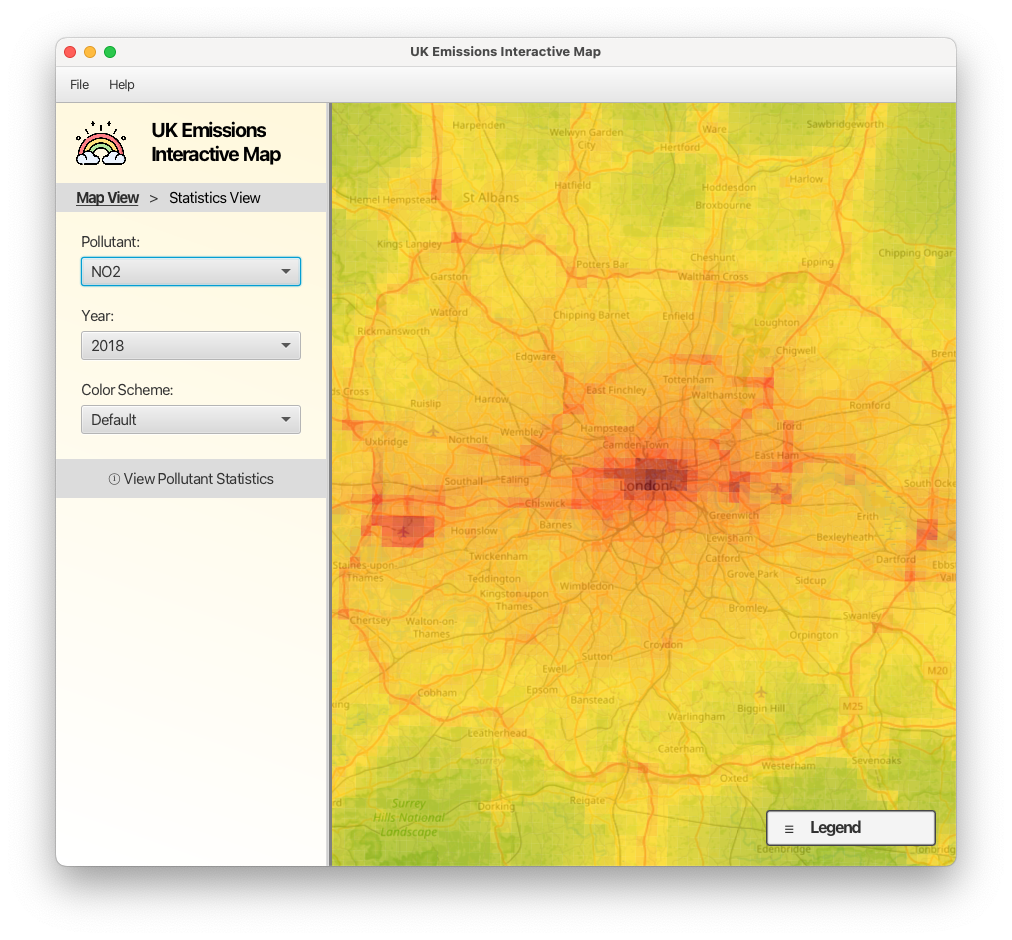
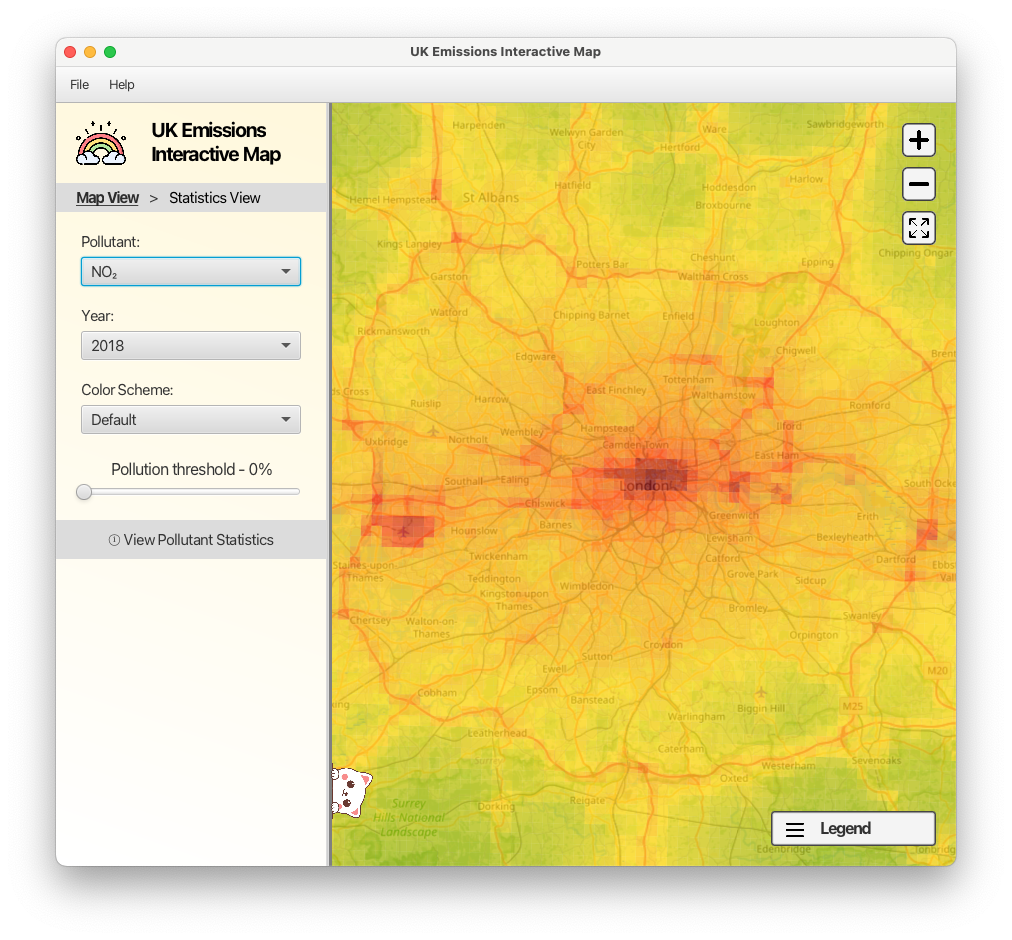
feature(WelcomePageController): updated welcome page controller to reflect latest changes as well as make it flow much better

diff --git a/src/app/uiControllers/WelcomePageController.java b/src/app/uiControllers/WelcomePageController.java
@@ -47,7 +47,7 @@ public class WelcomePageController {
 
     private static void initialiseMenu(){
         // Some string formatting
-        String firstPage = """
+        String welcomeMessage = """
                 Welcome to the UK Emissions Interactive Map!
                 This project was made by Mehmet Kutay Bozkurt, Anas Ahmed, Matthias Loong and Chelsea Feliciano.
                 
@@ -55,23 +55,41 @@ public class WelcomePageController {
                 To start, you can use your mouse to drag around the map and use your mousewheel or trackpad to zoom in or out by scrolling.
                 Clicking on the "Legend" box will reveal the pollution values for the colours represented on the map.
                 """;
-        String secondPage = """
+        String sidePanelTutorial = """
                 On the side panel, you are able to select the Pollutant and historical data by year to view.
                 Selecting an option will automatically load the data to be viewed.
+                
+                Use the slider to only highlight areas that reach a certain pollution percentage.
+                
+                This app also allows changing the colour to be more colour blind friendly.
                 """;
-        String thirdPage = """
+        String popUpTutorial = """
                 Right clicking on any area of the map will display detailed information about the selected area's location information such as coordinates and postal code on the map along with pollution details.
                 The popup will also display live pollution details taken from the World Air Quality Index which is updated hourly.
                 """;
-        String fourthPage = """
+        String closeSidePanelTutorial = """
+                Click on the cat next to the side panel to hide the side panel for easier map viewing!
+                The buttons on the upper-right hand side of the application also allow for zooming in and out, as well as switching between windowed and full-screen modes.
+                """;
+
+        String statsTutorial = """
                 Clicking on "View Pollution Statistics" will bring up the Statistics page with a breakdown of various pollution statistics of the selected pollutant and date range.
                 Use the selectors on the side panel to choose the pollutant and date range to search. Further statistical views are available by toggling the buttons on the bottom of the page
                 """;
+        String lastPage = """
+                You are now ready to use the interactive map!
+                If you need to view this tutorial again, you can access it by clicking "Help" => "Tutorial" on the navigation bar.
+                
+                """;
 
-        tutorialPicDescMap.put("/resources/screenshots/main_page.png", firstPage);
-        tutorialPicDescMap.put("/resources/screenshots/main_page_selection.png", secondPage);
-        tutorialPicDescMap.put("/resources/screenshots/info_popup.png", thirdPage);
-        tutorialPicDescMap.put("/resources/screenshots/statistics_page.png", fourthPage);
+        tutorialPicDescMap.put("/resources/screenshots/main_page.png", welcomeMessage);
+        tutorialPicDescMap.put("/resources/screenshots/main_page_selection.png", sidePanelTutorial);
+        tutorialPicDescMap.put("/resources/screenshots/main_page_colour_selector.png", sidePanelTutorial);
+        tutorialPicDescMap.put("/resources/screenshots/info_popup.png", popUpTutorial);
+        tutorialPicDescMap.put("/resources/screenshots/main_page_cat.png", closeSidePanelTutorial);
+        tutorialPicDescMap.put("/resources/screenshots/fullscreen_cat.png", closeSidePanelTutorial);
+        tutorialPicDescMap.put("/resources/screenshots/statistics_page.png", statsTutorial);
+        tutorialPicDescMap.put("/resources/screenshots/main_screen_ready.png", lastPage);
 
         // Store ordered image paths
         imagePaths.addAll(tutorialPicDescMap.keySet());
